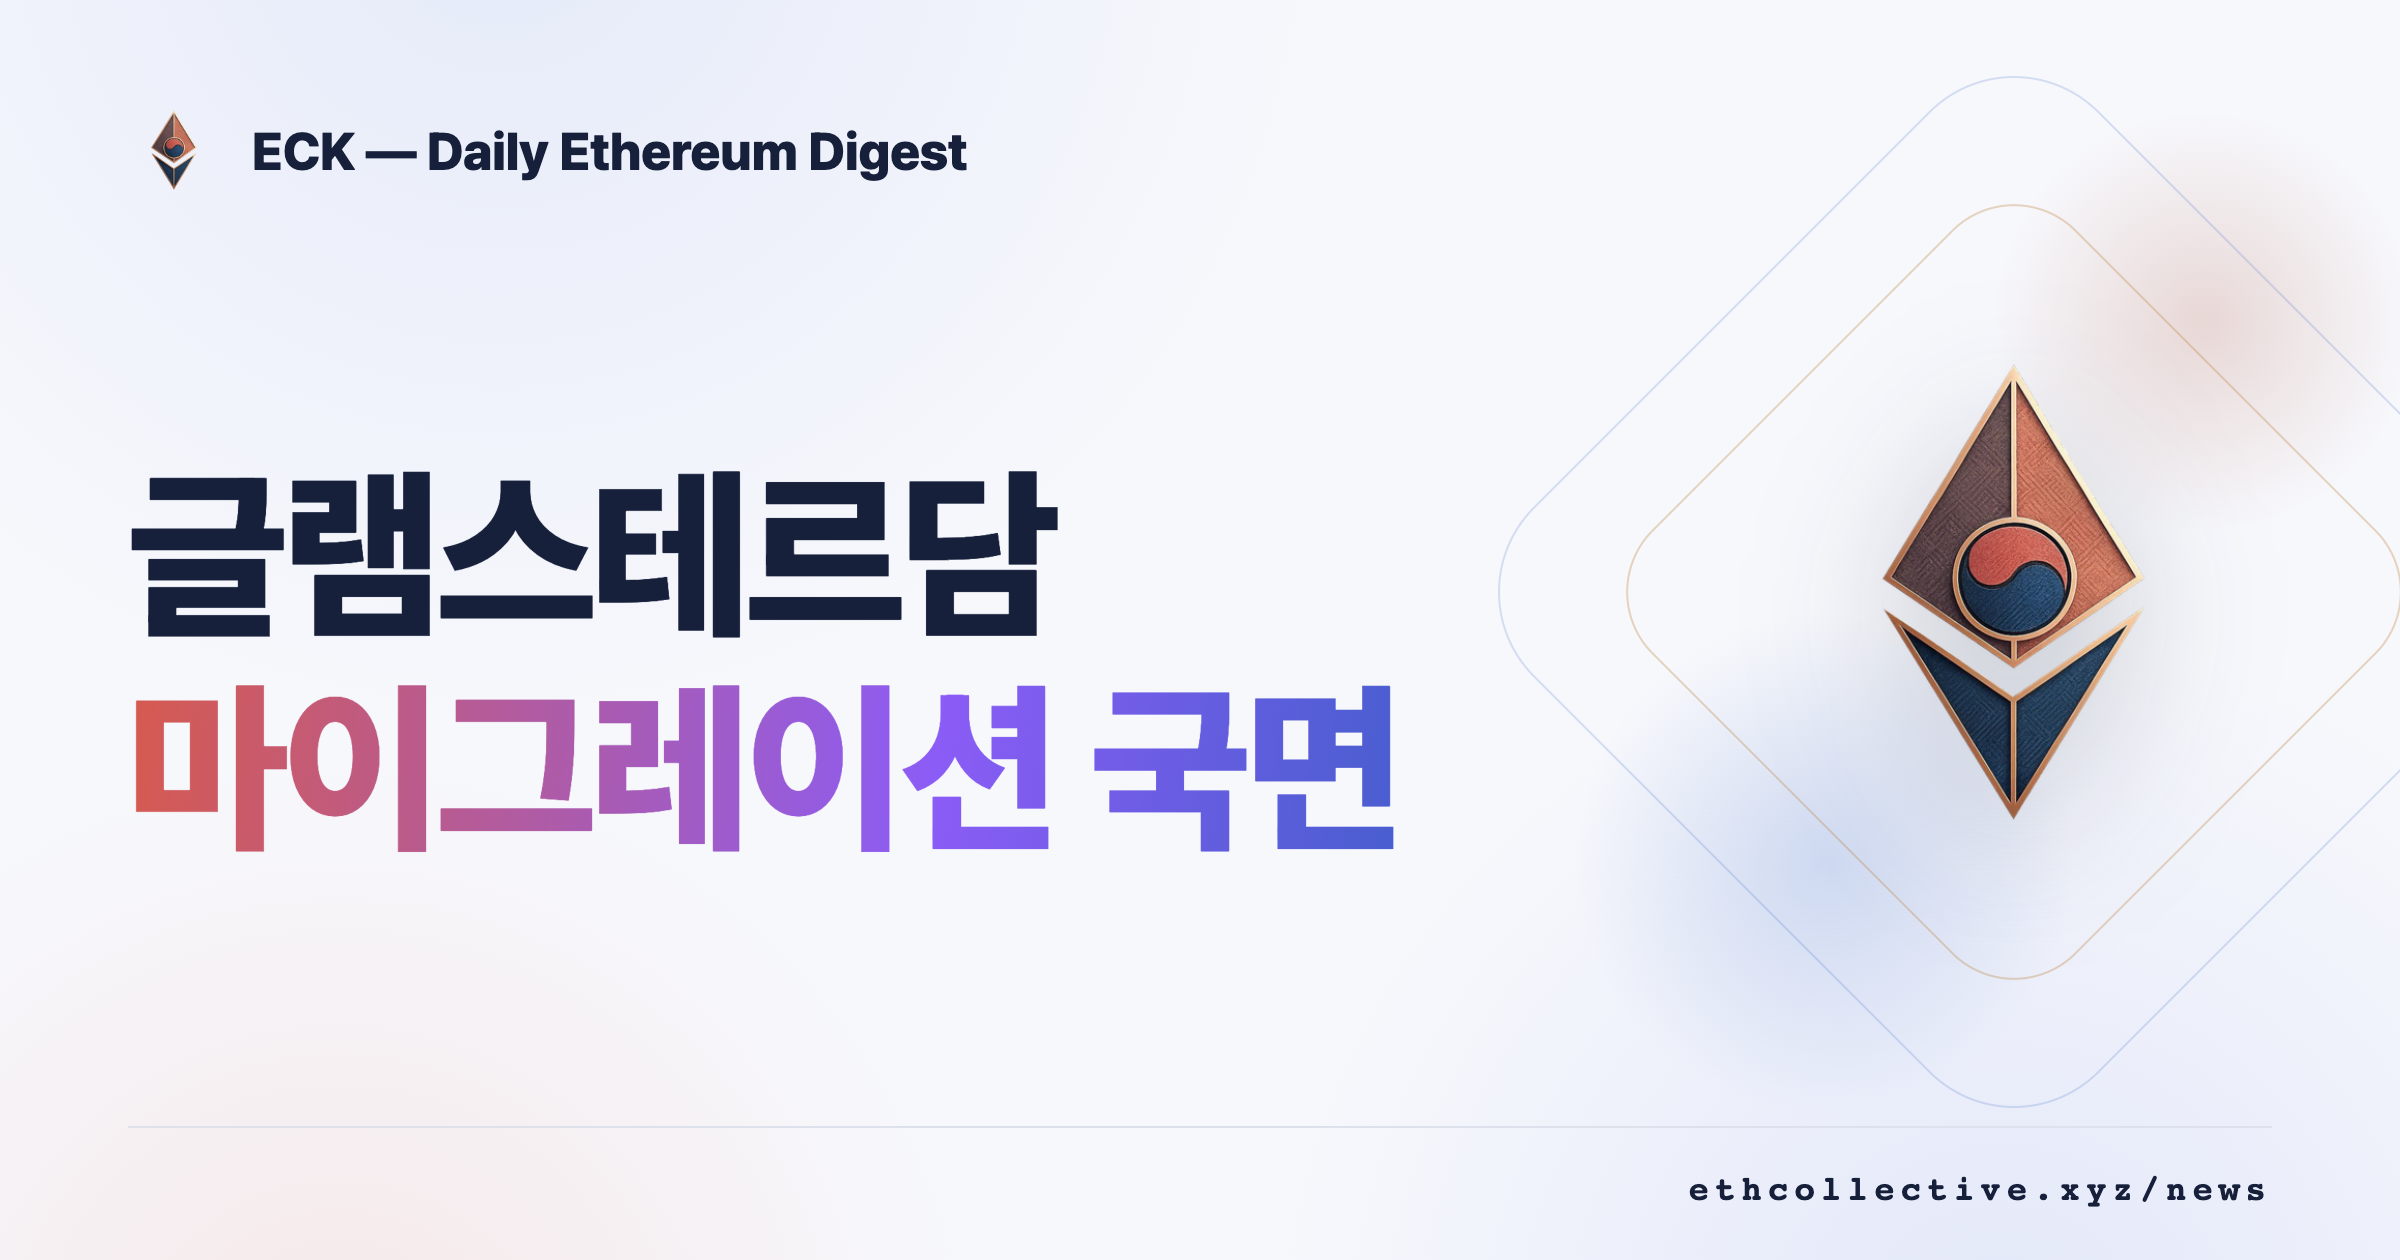
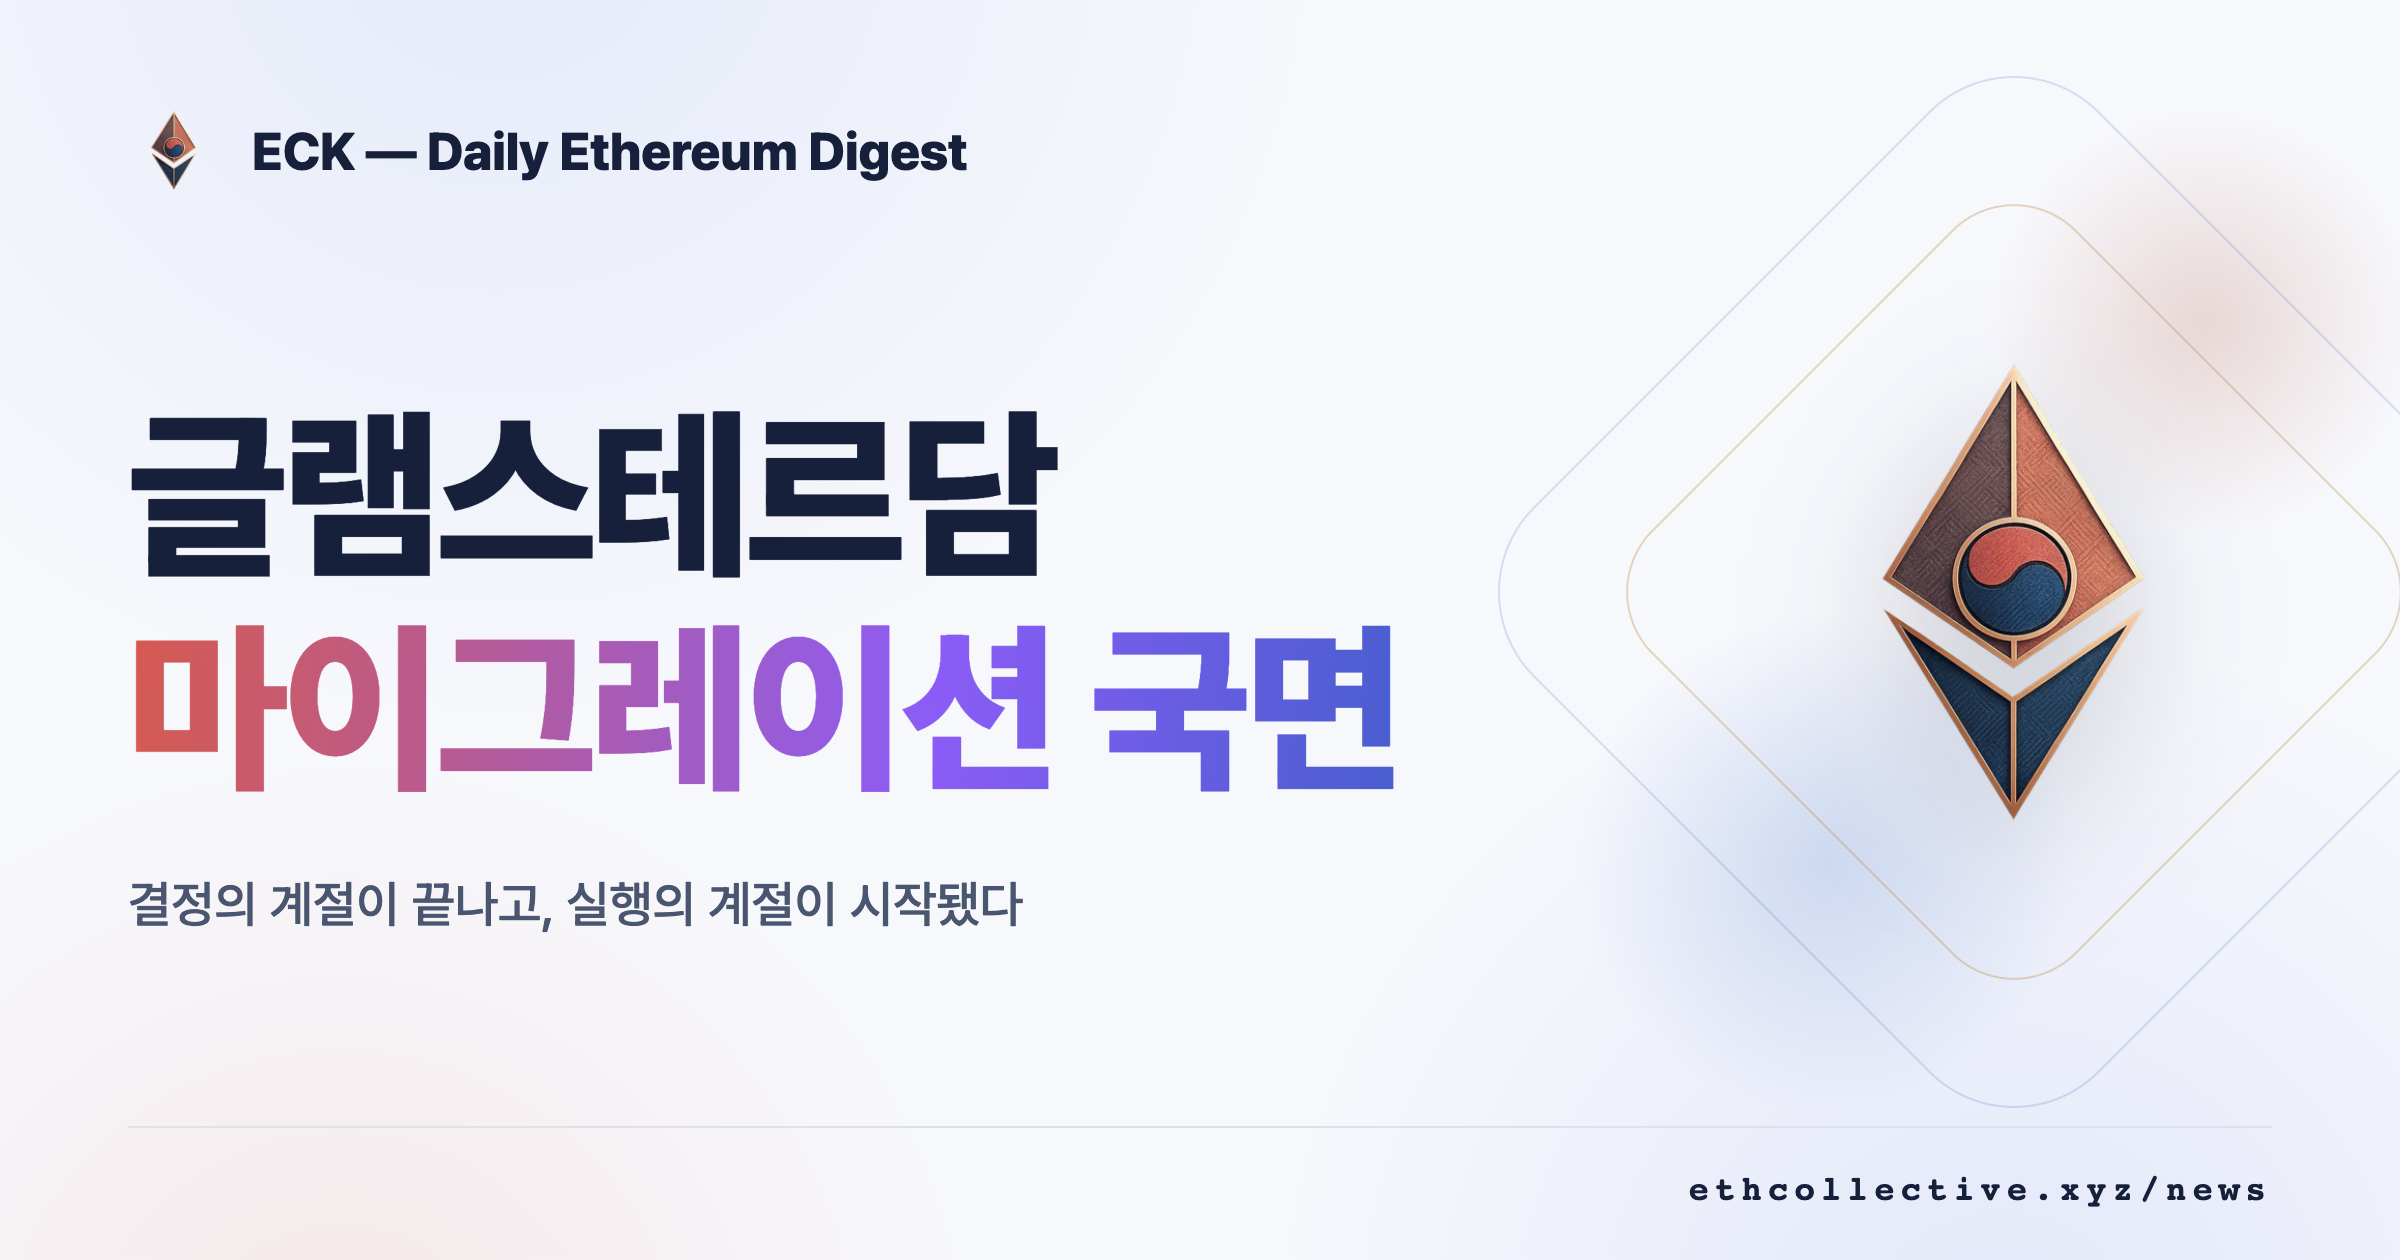
feat: 커버 한 줄 부제(subTitle) — 편집자가 매일 30자 이내 생성

Changed region(s): [[0.0312, 0.3095, 0.5938, 0.7429]]

diff --git a/scripts/generate-eth-digest.ts b/scripts/generate-eth-digest.ts
@@ -20,6 +20,7 @@ const KEEP_DIGESTS = 30;
 const DigestSchema = z.object({
   title: z.string(),
   shortTitle: z.string(),
+  subTitle: z.string(),
   intro: z.string(),
   sections: z.array(
     z.object({
@@ -94,6 +95,7 @@ const EDITOR_PROMPT = `당신은 ECK(Ethereum Collective Korea)의 시니어 리
 구성:
 - title: 그날의 핵심 의미를 담은 한국어 헤드라인 (한 문장, 낚시성 금지)
 - shortTitle: 커버 이미지용 초압축 헤드라인 — 공백 포함 16자 이내, 한 줄, 핵심 키워드 중심
+- subTitle: 커버용 한 줄 부제 — 타이틀을 보완하는 30자 이내 문장 (그날의 의미를 담담하게)
 - intro: 3~5문장 — 그날의 소식들을 관통하는 흐름과 의미를 세우는 에디터 칼럼
 - sections는 독자가 구분별로 골라 보는 탭입니다. 아래 순서·이름을 그대로 쓰고, 해당 항목이 없으면 생략:
   1. "오늘의 인사이트" (필수)
@@ -114,7 +116,7 @@ const EDITOR_PROMPT = `당신은 ECK(Ethereum Collective Korea)의 시니어 리
 - 중요도 순으로 배치: 프로토콜 변화 > 보안 > 생태계 > 시장.
 
 응답은 아래 형태의 JSON 하나만 출력하세요. 코드펜스·설명 없이 JSON만:
-{"title": "...", "shortTitle": "...", "intro": "...", "sections": [{"heading": "...", "items": [{"title": "...", "summary": "...", "why": "...", "url": "...", "source": "...", "date": "YYYY-MM-DD"}]}]}`;
+{"title": "...", "shortTitle": "...", "subTitle": "...", "intro": "...", "sections": [{"heading": "...", "items": [{"title": "...", "summary": "...", "why": "...", "url": "...", "source": "...", "date": "YYYY-MM-DD"}]}]}`;
 
 function todayKst(): string {
   return process.env.DIGEST_DATE ?? new Intl.DateTimeFormat('en-CA', { timeZone: 'Asia/Seoul' }).format(new Date());

diff --git a/scripts/render-digest-cover.ts b/scripts/render-digest-cover.ts
@@ -101,6 +101,7 @@ function coverHtml(digest: Digest, logoDataUri: string, fontDataUri: string): st
     .tline { white-space: nowrap; }
     .tline.accent { background: linear-gradient(95deg, #D65A4E 0%, #8B5CF6 55%, #2D5FBF 100%);
       -webkit-background-clip: text; -webkit-text-fill-color: transparent; }
+    .sub { margin-top: 30px; font-size: 25px; font-weight: 500; color: #4A5570; white-space: nowrap; }
     /* 로고 무대: 컬러 오브 + 다이아 아웃라인 에코 */
     .stage { position: absolute; right: 28px; top: 47%; transform: translateY(-50%);
       width: 330px; height: 430px; }
@@ -135,6 +136,7 @@ function coverHtml(digest: Digest, logoDataUri: string, fontDataUri: string): st
           <div class="tline">${esc(line1)}</div>
           ${line2 ? `<div class="tline accent">${esc(line2)}</div>` : ''}
         </div>
+        ${digest.subTitle ? `<div class="sub">${esc(digest.subTitle)}</div>` : ''}
       </div>
       <div class="foot mono">
         <span><b>ethcollective.xyz/news</b></span>

diff --git a/src/data/ethNewsData.ts b/src/data/ethNewsData.ts
@@ -66,6 +66,8 @@ export interface EthDigest {
     title: string;
     /** 커버 이미지용 한 줄 헤드라인 */
     shortTitle?: string;
+    /** 커버용 한 줄 부제 */
+    subTitle?: string;
     intro: string;
     sections: EthDigestSection[];
     /** 커버 이미지 public 경로 (예: /assets/digests/2026-08-24.png) */
